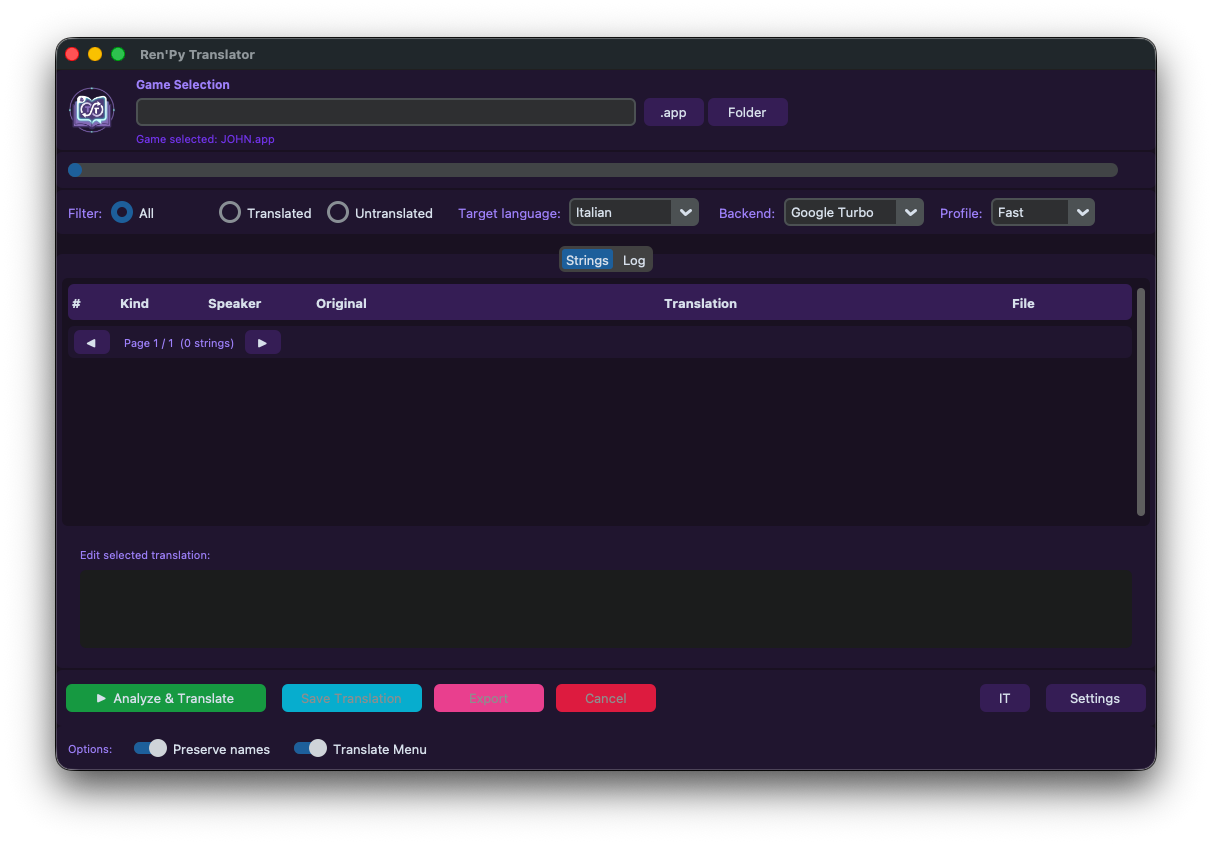
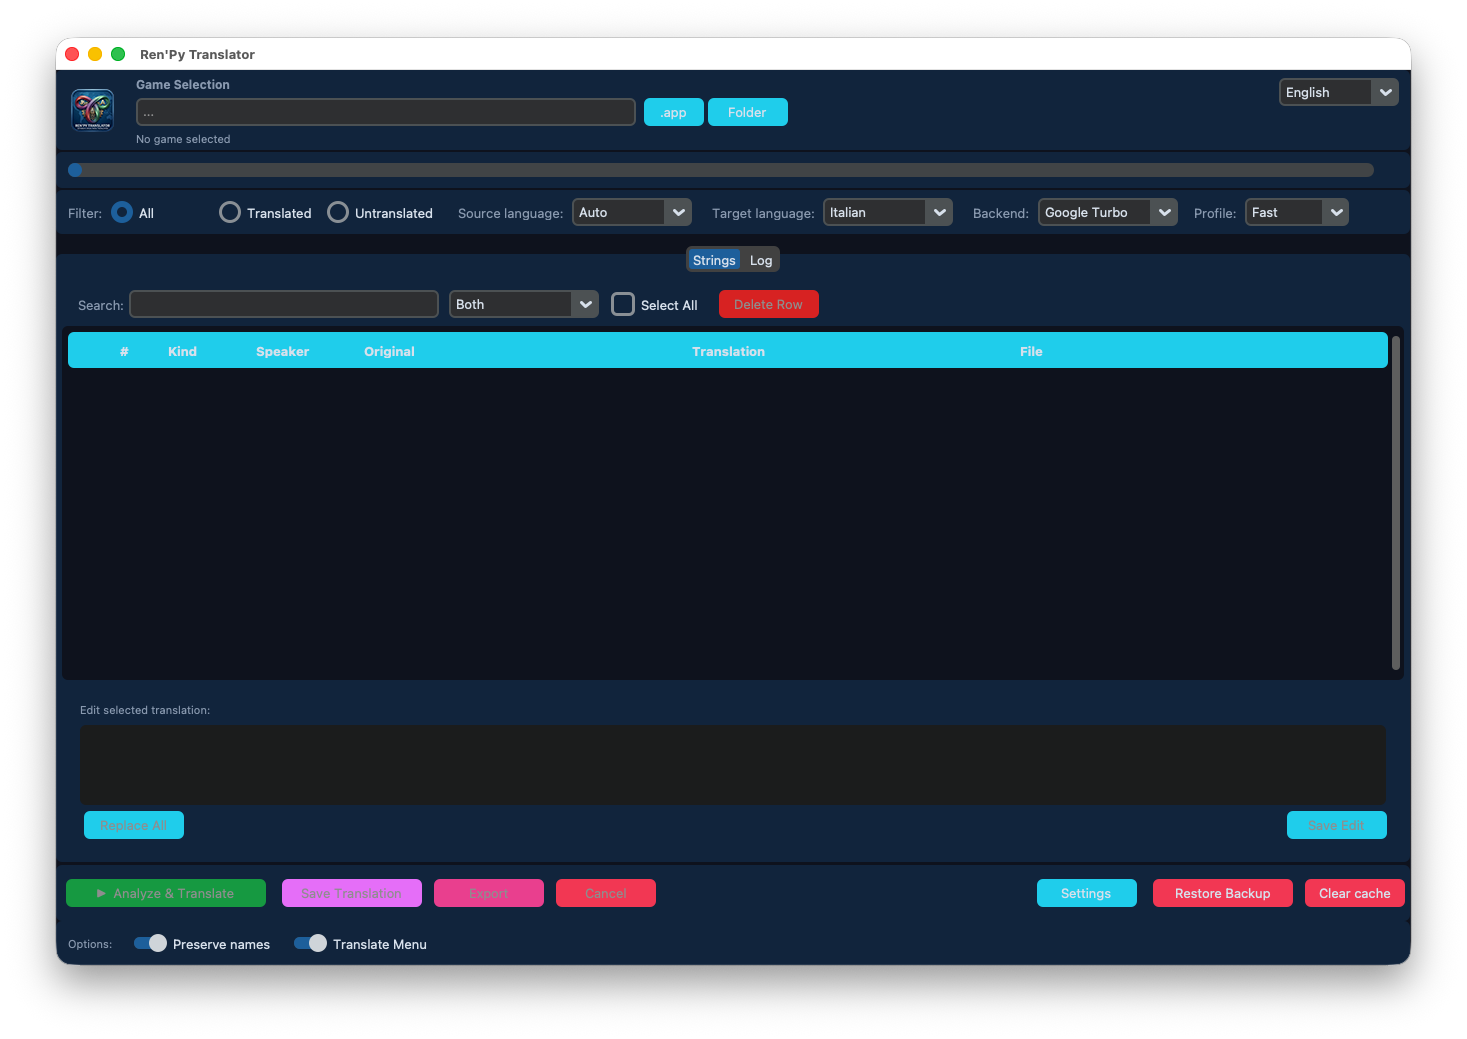
docs: aggiorna README_it e screenshot; abilita esecuzione build_mac_app.sh

Changed region(s): [[0.0305, 0.0308, 0.9769, 0.955]]

diff --git a/README_it.md b/README_it.md
@@ -1,8 +1,6 @@
 # 🌐 Ren'Py Translator
 
-<p align="center">
-  <img src="logo_512.png" alt="Ren'Py Translator Logo" width="160">
-</p>
+![RenPy Translator Logo](img/logo_512.png)
 
 <p align="center">
   <a href="README.md"><img src="https://img.shields.io/badge/🇬🇧-Read%20in%20English-blue?style=flat-square" alt="Read in English"></a>
@@ -15,9 +13,7 @@
 
 > Uno strumento GUI universale per tradurre automaticamente i giochi Ren'Py — estrae gli script, rileva dialoghi e narrazione, e scrive i file di traduzione compatibili con Ren'Py (`tl/<lingua>/`).
 
-<p align="center">
-  <img src="translator-gui.png" alt="Ren'Py Translator GUI" width="800">
-</p>
+![Ren'Py Translator GUI](img/translator-gui.png)
 
 ---
 